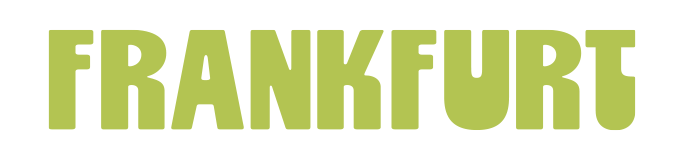
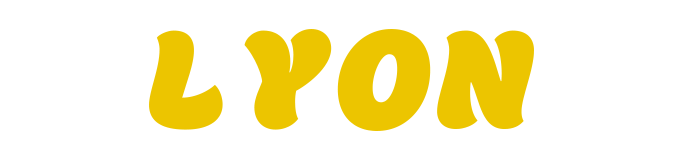
lyon menu

diff --git a/toe-menu/index.html b/toe-menu/index.html
@@ -63,18 +63,18 @@
     />
 
     <a
-      href="https://docs.google.com/forms/d/e/1FAIpQLScCSwwMgMdONuGFl5eCd3mS1ck8fhgiiDZ38riWLOYpa3Bovg/viewform"
+      href="https://forms.gle/GeGhwszv3u4Ys6U57"
       class="s-titel__btn"
       target="_blank"
       rel="noopener noreferrer"
-    >RAFFLE</a>
+    >TOMBOLA</a>
 
     <a
-      href="https://forms.gle/ijScVPAvm8NBuG6w6"
+      href="https://forms.gle/mmGUvSYQTRqkGUwEA"
       class="s-titel__btn"
       target="_blank"
       rel="noopener noreferrer"
-    >RAKAN EVENT</a>
+    >ÉVÉNEMENT RAKAN</a>
   </section>
 
 
@@ -84,54 +84,27 @@
   <section class="s-menu">
     <h2 class="s-menu__title">MENU</h2>
     <p class="s-menu__subtitle">
-      Freie Speisen und Getränke mit Gutschein
+      Liste des boissons et burgers disponibles avec les coupons
     </p>
 
-    <h3 class="s-menu__category">Softgetränke</h3>
+    <h3 class="s-menu__category">Boissons</h3>
     <div class="s-menu__item">
-      <p class="s-menu__item-text">Mineral Wasser | Cola | Cola Zero | Schorle | Slushies</p>
+      <p class="s-menu__item-text">Eau plate ou gazeuse | Ninkasi thé glacé | Ninkasi Cola | Ninkasi Limonade | Ninkasi Tonic | Ninkasi Ginger ale</p>
     </div>
 
-    <h3 class="s-menu__category">SPEISEN</h3>
+    <h3 class="s-menu__category">BURGER</h3>
 
     <div class="s-menu__item">
-      <p class="s-menu__item-title">VORSPEISE:</p>
-      <p class="s-menu__item-text">Mais-Jalapeño-Suppe</p>
+      <p class="s-menu__item-title">« Honey For Nothing Burger »</p>
+      <p class="s-menu__item-text">Protéine au choix (boeuf, poulet mariné ou galette de lentilles vertes), cheddar, oignons rouges, oignons frits, moutarde au miel, ketchup Ninkasi & salade</p>
+ 
     </div>
 
-    <div class="s-menu__item">
-      <p class="s-menu__item-title">HAUPTGÄNGE ZUR AUSWAHL:</p>
-
-      <p class="s-menu__item-text"><strong>Pulled Pork Sandwich</strong></p>
-      <p class="s-menu__item-text">Weiches Brötchen, rauchiges Pulled Pork, etwas Senf und rote Zwiebeln</p>
-
-      <hr class="s-menu__divider" />
-
-      <p class="s-menu__item-text"><strong>Fried Chicken Sandwich</strong></p>
-      <p class="s-menu__item-text">Knuspriges gebratenes Hähnchen, Coleslaw und Dijonnaise</p>
-
-      <hr class="s-menu__divider" />
-
-      <p class="s-menu__item-text"><strong>Jackfruit Sandwich</strong></p>
-      <p class="s-menu__item-text">Vegetarisches Pulled Pork, BBQ-Sauce und rote Zwiebeln</p>
-
-      <hr class="s-menu__divider" />
-
-      <p class="s-menu__item-text"><strong>Blumenkohl</strong></p>
-      <p class="s-menu__item-text">Veganes Blumenkohlpüree, angeröstete Röschen, Limette und Balsamico</p>
-
-      <hr class="s-menu__divider" />
-
-      <p class="s-menu__item-text"><strong>Mit Beilagen nach Wahl:</strong></p>
-      <p class="s-menu__item-text">Knackiges Kohl-Karotten-Duo mit cremigem Dressing</p>
-      <p class="s-menu__item-text"><strong>oder</strong></p>
-      <p class="s-menu__item-text">Doppelt frittierte Pommes mit Schale</p>
+    <div class="s-menu__item"><br>
+      <p class="s-menu__item-text s-menu__item-text--spaced">La cuisine est ouverte jusqu'à 23h00.</p>
+      <p class="s-menu__item-text s-menu__item-text--spaced s-menu__item-text--italic">Pour les petites faims ou une boisson fraîche, n'hésitez pas à demander le menu à l'équipe de l'établissement</p>
     </div>
 
-    <div class="s-menu__item">
-      <p class="s-menu__item-title">DESSERT</p>
-      <p class="s-menu__item-text">Mousse au Chocolat</p>
-    </div>
   </section>
 
 
@@ -139,110 +112,74 @@
     SECTION 4: SCHEDULE / ZEITPLAN
   ============================================================ -->
   <section class="s-menu s-schedule">
-    <h2 class="s-menu__title">Zeitplan</h2>
+    <h2 class="s-menu__title">PROGRAMME</h2>
     <div class="s-schedule__list">
       <div class="s-schedule__row">
-        <span class="s-schedule__time">14:00 – 15:00</span>
-        <span class="s-schedule__desc">Einlass</span>
+        <span class="s-schedule__time">14h00 - 15h00</span>
+        <span class="s-schedule__desc">Accueil / Entrée</span>
       </div>
       <div class="s-schedule__row">
-        <span class="s-schedule__time">15:00 – 15:15</span>
-        <span class="s-schedule__desc">Eröffnungsrede</span>
+        <span class="s-schedule__time">15h00 - 15h15</span>
+        <span class="s-schedule__desc">Discours d'ouverture</span>
       </div>
       <div class="s-schedule__row">
-        <span class="s-schedule__time">15:15 – 16:30</span>
-        <span class="s-schedule__desc">Missionen / Chimären Challenge #1 / Gruppenfoto</span>
+        <span class="s-schedule__time">15h15 - 16h30</span>
+        <span class="s-schedule__desc">Missions / Challenge de la Chimère #1 / Photo de groupe</span>
       </div>
       <div class="s-schedule__row">
-        <span class="s-schedule__time">16:30 – 17:15</span>
+        <span class="s-schedule__time">16h30 - 17h15</span>
         <span class="s-schedule__desc">Quiz</span>
       </div>
       <div class="s-schedule__row">
-        <span class="s-schedule__time">17:15 – 18:00</span>
-        <span class="s-schedule__desc">Chimären Challenge #2 / Summon Session</span>
+        <span class="s-schedule__time">17h15 - 18h00</span>
+        <span class="s-schedule__desc">Challenge de la Chimère #2 / Summon Session</span>
       </div>
       <div class="s-schedule__row">
-        <span class="s-schedule__time">18:00 – 18:30</span>
-        <span class="s-schedule__desc">Freizeit / Mini-Spiele</span>
+        <span class="s-schedule__time">18h00 - 18h30</span>
+        <span class="s-schedule__desc">Temps libre / Mini-jeux</span>
       </div>
       <div class="s-schedule__row">
-        <span class="s-schedule__time">18:30 – 19:30</span>
-        <span class="s-schedule__desc">Chimären Challenge #3 / 2v2 mit Influencern</span>
+        <span class="s-schedule__time">18h30 - 19h30</span>
+        <span class="s-schedule__desc">Challenge de la Chimère #3 / 2v2 avec les influenceurs</span>
       </div>
       <div class="s-schedule__row">
-        <span class="s-schedule__time">19:30 – 20:30</span>
-        <span class="s-schedule__desc">Raffle-Gewinner Bekanntgabe / Chimären Raffle</span>
+        <span class="s-schedule__time">19h30 - 20h30</span>
+        <span class="s-schedule__desc">Mission 6 / Tombola / Tombola Rakan</span>
       </div>
       <div class="s-schedule__row">
-        <span class="s-schedule__time">20:30 – End</span>
-        <span class="s-schedule__desc">Freizeit / Event Ende</span>
+        <span class="s-schedule__time">20h30 - Fin</span>
+        <span class="s-schedule__desc">Temps libre / Fin de l'événement</span>
       </div>
     </div>
   </section>
 
-
-  <!-- ============================================================
-    SECTION 5: BANNER
-  ============================================================ -->
-  <section class="s-banner">
-    <h2 class="s-banner__title">nicht verpassen:</h2>
-
-    <div class="s-banner__wrapper">
-      <!-- Haupt-Link für das gesamte Bild (außer dem YouTube-Bereich) -->
-      <a
-        href="https://summonerswar.com/de/skyarena/news/list/6635?page=1&category=others"
-        target="_blank"
-        rel="noopener noreferrer"
-        class="s-banner__link-main"
-        aria-label="Summoners War News"
-      >
-        <img
-          src="images/banner1.png"
-          srcset="images/banner1.png 1x, images/banner1@2x.png 2x"
-          alt="Summoners War – Verpasse nichts"
-          class="s-banner__img"
-          width="390"
-          height="390"
-          loading="lazy"
-          decoding="async"
-        />
-      </a>
-
-      <!-- Unsichtbarer Overlay-Button für den YouTube-Link -->
-      <a
-        href="https://www.youtube.com/@Summoners_War_DE"
-        target="_blank"
-        rel="noopener noreferrer"
-        class="s-banner__overlay-btn"
-        aria-label="Summoners War YouTube-Kanal"
-        title="Zum YouTube-Kanal"
-      ></a>
-    </div>
-  </section>
 
 
   <!-- ============================================================
     SECTION 6: SOCIAL MEDIA
   ============================================================ -->
   <section class="s-social">
-    <p class="s-social__title">Folge uns auf</p>
+    <p class="s-social__title">SUIVEZ-NOUS SUR</p>
     <div class="s-social__icons">
-      <a href="https://www.instagram.com/summonerswar_de/" class="s-social__link" target="_blank" rel="noopener noreferrer" aria-label="Instagram Summoners War DE">
+      <a href="https://www.instagram.com/summonerswar_fr/" class="s-social__link" target="_blank" rel="noopener noreferrer" aria-label="Instagram Summoners War DE">
         <img src="images/instagram.svg" alt="Instagram" class="s-social__icon" />
       </a>
-      <a href="https://www.instagram.com/com2us_de/" class="s-social__link" target="_blank" rel="noopener noreferrer" aria-label="Instagram com2us DE">
-        <img src="images/instagram_de.svg" alt="Instagram com2us DE" class="s-social__icon" />
+      <a href="https://www.instagram.com/com2us_fr" class="s-social__link" target="_blank" rel="noopener noreferrer" aria-label="Instagram com2us FR">
+        <img src="images/instagram_fr.svg" alt="Instagram com2us FR" class="s-social__icon" />
       </a>
-      <a href="https://www.youtube.com/@Summoners_War_DE" class="s-social__link" target="_blank" rel="noopener noreferrer" aria-label="YouTube">
-        <img src="images/youtube.svg" alt="YouTube" class="s-social__icon" />
+      <a href="https://www.youtube.com/@SummonersWarEurope" class="s-social__link" target="_blank" rel="noopener noreferrer" aria-label="Facebook">
+        <img src="images/youtube.svg" alt="Facebook" class="s-social__icon" />
       </a>
-      <a href="https://discord.com/invite/swofficial" class="s-social__link" target="_blank" rel="noopener noreferrer" aria-label="Discord">
+      <a href="https://x.com/summonerswar_FR" class="s-social__link" target="_blank" rel="noopener noreferrer" aria-label="X (Twitter) Summoners War FR">
+        <img src="images/twitter.svg" alt="X (Twitter)" class="s-social__icon" />
+      </a>
+      <a href="https://discord.gg/swofficial" class="s-social__link" target="_blank" rel="noopener noreferrer" aria-label="Discord">
         <img src="images/discord.svg" alt="Discord" class="s-social__icon" />
       </a>
-      <a href="https://www.tiktok.com/@summonerswar_de" class="s-social__link" target="_blank" rel="noopener noreferrer" aria-label="TikTok">
+      <a href="https://www.tiktok.com/@summonerswar_fr" class="s-social__link" target="_blank" rel="noopener noreferrer" aria-label="TikTok">
         <img src="images/tiktok.svg" alt="TikTok" class="s-social__icon" />
       </a>
-      <a href="https://www.facebook.com/summonerde/" class="s-social__link" target="_blank" rel="noopener noreferrer" aria-label="Facebook">
+      <a href="https://www.facebook.com/Summonersfr" class="s-social__link" target="_blank" rel="noopener noreferrer" aria-label="Facebook">
         <img src="images/facebook.svg" alt="Facebook" class="s-social__icon" />
       </a>
     </div>

diff --git a/toe-menu/css/style.css b/toe-menu/css/style.css
@@ -61,8 +61,8 @@
   /* Colors */
   --color-white:        #ffffff;
   --color-bg-light:     #ffffff;
-  --color-bg-brand:     #afc538;
-  --color-bg-hero:      #afc538;
+  --color-bg-brand:     #ecc500;
+  --color-bg-hero:      #ecc500;
 
   /* Typography */
   --font-rounded:       'BebasNeueSemiRounded', sans-serif;
@@ -254,6 +254,16 @@ img {
   font-weight: 500;
   line-height: 1.6;
   overflow-wrap: break-word;
+}
+
+/* Modifier: adds top spacing before a text paragraph */
+.s-menu__item-text--spaced {
+  margin-top: var(--space-sm);
+}
+
+/* Modifier: italic text paragraph */
+.s-menu__item-text--italic {
+  font-style: italic;
 }
 
 /* Semantic divider between menu items – replaces the old modifier class on <p> */
